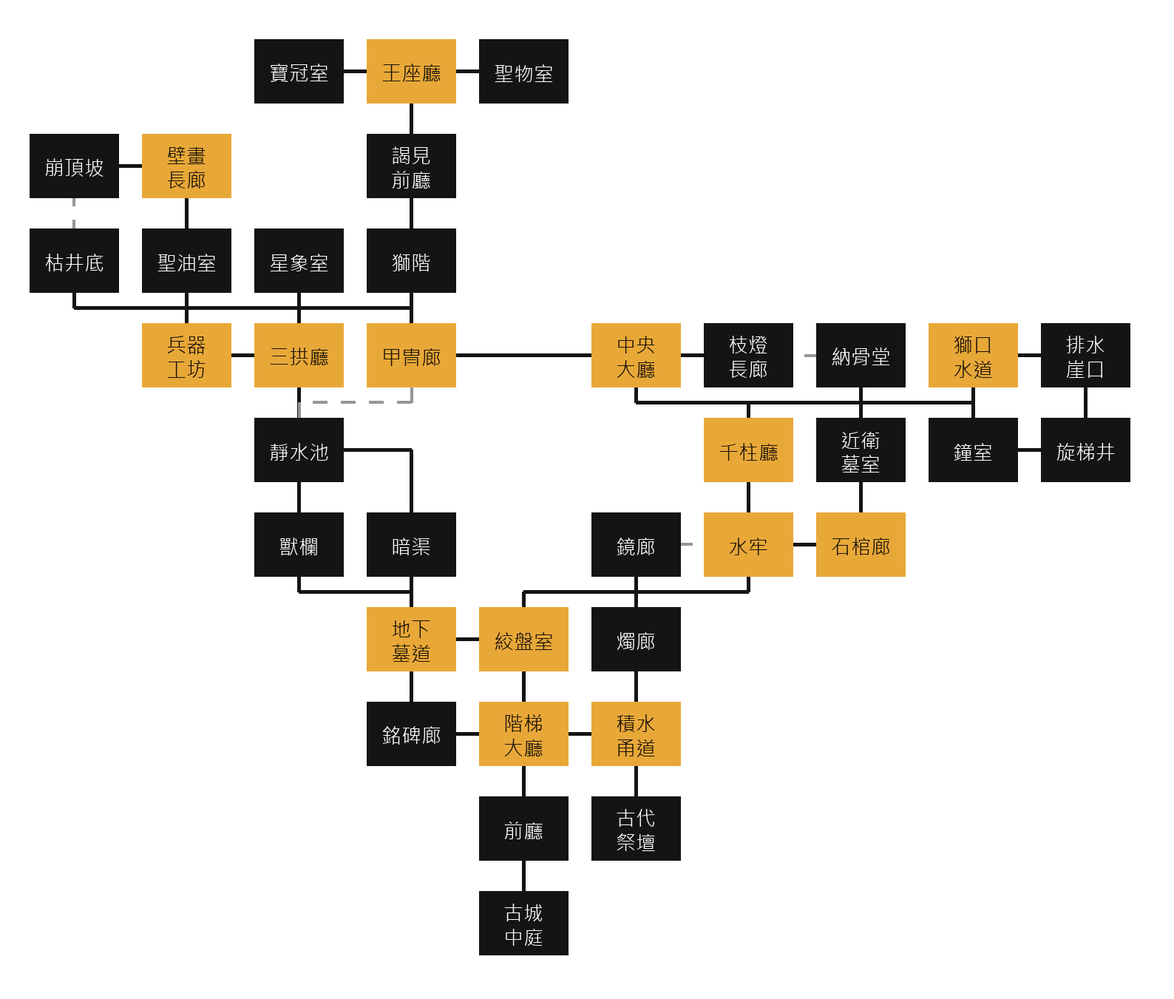
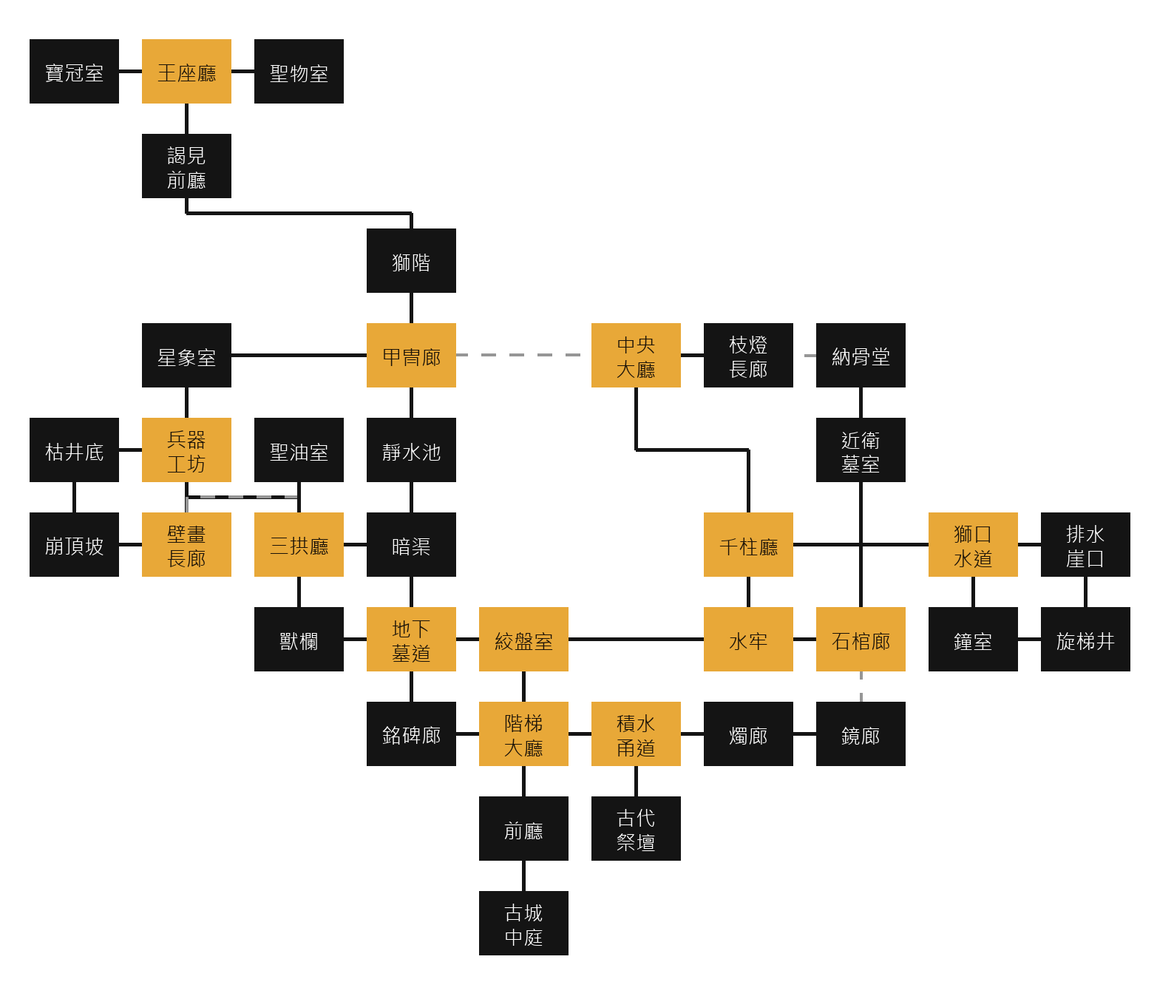
fix(belisar): 照 reference/投影片1 接 —— 方向重解 ＋ 四個休息處 ver -1406
■ 拓樸：**逐項對照投影片驗過**
· 節點 37／邊 44 —— 與投影片**零差異**（`live ^ ppt` 空集）
· 方向**重新從投影片的版面解**（憲法 -907：方向＝相對位置），
  以「與圖上連線的夾角總和最小」求解 ⇒ 22 格的 `exits` 改寫。
  ⚠ 剩 6 條偏 50~68°：那是**無解的部分** —— 圖畫成斜格，
    一格四個方向擺不下四個同象限的鄰居，總誤差已是最小。
· 兩端相反 44/44、全連通 37/37、同向不繞回、死胡同只有
  altar／crown／entrance／offering。

■ 休息處（Ray：「休息點是前廳　兵器工坊　旋梯井　獅階」）
⚠⚠ **我上一輪把「安全點」只讀成 `noWild`（不出怪），漏了 `rest`（＝結算點）。**
四格現在都是 `rest:true`：前廳・兵器工坊・旋梯井・獅階。
⚠ `rest` 與 `noWild` 是兩件事：前者是「走進去就閉棺結算」，後者是「這一格不刷怪」。
  休息處一律兩個都要（在收尾點刷怪＝先打一場再結算）。

■ `altar` 的 bg 還原成 `Belisar_OldAltar`
-1405 改成 `Belisar_EntryHall` 是**擲硬幣**：那兩張圖**位元組相同**
（32×32 指紋差 0.00），投影片的縮圖對兩者的距離一樣，分不出來。

diff --git a/script/town.js b/script/town.js
@@ -5502,17 +5502,17 @@ export const TOWNS = {
       },
     },
     nodes: {
-      throne:    { bg:'Belisar_ThroneHall', name:'貝利薩爾遺址　王座廳', noTime:true, exits:{ down:'antecham', left:'crown', right:'offering' } },
+      throne:    { bg:'Belisar_ThroneHall', name:'貝利薩爾遺址　王座廳', noTime:true, exits:{ left:'crown', right:'offering', down:'antecham' } },
       crown:     { bg:'Belisar_CrownRoom', name:'貝利薩爾遺址　寶冠室', noTime:true, exits:{ right:'throne' } },
-      antecham:  { bg:'Belisar_Antechamber', name:'貝利薩爾遺址　謁見前廳', noTime:true, exits:{ up:'throne', down:'dragstair' } },
+      antecham:  { bg:'Belisar_Antechamber', name:'貝利薩爾遺址　謁見前廳', noTime:true, exits:{ down:'dragstair', up:'throne' } },
       offering:  { bg:'Belisar_RelicRoom', name:'貝利薩爾遺址　聖物室', noTime:true, exits:{ left:'throne' } },
-      dragstair: { bg:'Belisar_LionStair', name:'貝利薩爾遺址　獅階', noTime:true, noWild:true, exits:{ up:'antecham', down:'guardhall' } },
+      dragstair: { bg:'Belisar_LionStair', name:'貝利薩爾遺址　獅階', noTime:true, noWild:true, rest:true, exits:{ up:'antecham', down:'guardhall' } },
       starroom:  { bg:'Belisar_Orrery', name:'貝利薩爾遺址　星象室', noTime:true, exits:{ right:'guardhall', down:'forge' } },
-      guardhall: { bg:'Belisar_ArmourGallery', name:'貝利薩爾遺址　甲冑廊', noTime:true, exits:{ up:'dragstair', left:'starroom', right:'greathall', down:'mirrorpool' } },
+      guardhall: { bg:'Belisar_ArmourGallery', name:'貝利薩爾遺址　甲冑廊', noTime:true, exits:{ up:'dragstair', right:'greathall', down:'mirrorpool', left:'starroom' } },
       greathall: { bg:'Belisar_GreatHall', name:'貝利薩爾遺址　中央大廳', noTime:true, exits:{ left:'guardhall', right:'lamphall', down:'pillars' } },
       lamphall:  { bg:'Belisar_ChandelierHall', name:'貝利薩爾遺址　枝燈長廊', noTime:true, exits:{ left:'greathall', right:'ossuary' } },
       ossuary:   { bg:'Belisar_Ossuary', name:'貝利薩爾遺址　納骨堂', noTime:true, exits:{ left:'lamphall', down:'wardtomb' } },
-      mirrorpool:{ bg:'Belisar_StillPool', name:'貝利薩爾遺址　靜水池', noTime:true, exits:{ up:'guardhall', down:'cages' } },
+      mirrorpool:{ bg:'Belisar_StillPool', name:'貝利薩爾遺址　靜水池', noTime:true, exits:{ down:'cages', up:'guardhall' } },
       /* ⚠ 枝燈長廊↔下沉中庭是 **`up`／`down`**（ver -1159，Ray：「枝燈長廊往下沉中庭
          應該往上吧」）—— 與佈局圖上的相對位置相反（圖上中庭畫在長廊**下面**）。
          ⚠⚠ **所以小地圖的版面要跟著改**：`tools/map_layout.py` 的 belisar 版面
@@ -5527,32 +5527,32 @@ export const TOWNS = {
          `rooffall.left` 兩個指向它的出口也拆掉（施工單第一節）。
          ⚠ `Belisar_SunkenCourt` 那組圖從此沒有人用（美術**先不回收**，等確定不放回來）。
          ⚠⚠ **這座城的休息處因此只剩 `foyer` 前廳一個** —— 那是施工單的設計，不是漏掉。 */
-      rooffall:  { bg:'Belisar_RoofFall', name:'貝利薩爾遺址　崩頂坡', noWild:true, exits:{ right:'muralwalk', up:'drywell' } },
-      muralwalk: { bg:'Belisar_MuralGallery', name:'貝利薩爾遺址　壁畫長廊', noTime:true, exits:{ left:'rooffall', up:'forge', down:'incense' } },
-      stairwell: { bg:'Belisar_SpiralWell', name:'貝利薩爾遺址　旋梯井', noTime:true, noWild:true, exits:{ up:'draincliff', left:'bellroom' } },
-      pillars:   { bg:'Belisar_Cistern', name:'貝利薩爾遺址　千柱廳', noTime:true, exits:{ up:'greathall', right:'dragonrace', down:'waterjail' } },
-      dragonrace:{ bg:'Belisar_LionSpout', name:'貝利薩爾遺址　獅口水道', noTime:true, exits:{ left:'pillars', right:'draincliff', down:'bellroom' } },
+      rooffall:  { bg:'Belisar_RoofFall', name:'貝利薩爾遺址　崩頂坡', noWild:true, exits:{ up:'drywell', right:'muralwalk' } },
+      muralwalk: { bg:'Belisar_MuralGallery', name:'貝利薩爾遺址　壁畫長廊', noTime:true, exits:{ up:'forge', down:'incense', left:'rooffall' } },
+      stairwell: { bg:'Belisar_SpiralWell', name:'貝利薩爾遺址　旋梯井', noTime:true, noWild:true, rest:true, exits:{ up:'draincliff', left:'bellroom' } },
+      pillars:   { bg:'Belisar_Cistern', name:'貝利薩爾遺址　千柱廳', noTime:true, exits:{ right:'dragonrace', up:'greathall', down:'waterjail' } },
+      dragonrace:{ bg:'Belisar_LionSpout', name:'貝利薩爾遺址　獅口水道', noTime:true, exits:{ down:'bellroom', right:'draincliff', left:'pillars' } },
       draincliff:{ bg:'Belisar_DrainCliff', name:'貝利薩爾遺址　排水崖口', exits:{ left:'dragonrace', down:'stairwell' } },
       incense:   { bg:'Belisar_ChrismRoom', name:'貝利薩爾遺址　聖油室', noTime:true, exits:{ up:'muralwalk', down:'trihall' } },
       bellroom:  { bg:'Belisar_BellRoom', name:'貝利薩爾遺址　鐘室', noTime:true, exits:{ up:'dragonrace', right:'stairwell' } },
-      drywell:   { bg:'Belisar_DryWell', name:'貝利薩爾遺址　枯井底', noTime:true, noWild:true, exits:{ right:'forge', down:'rooffall' } },
+      drywell:   { bg:'Belisar_DryWell', name:'貝利薩爾遺址　枯井底', noTime:true, noWild:true, exits:{ down:'rooffall', right:'forge' } },
       /* ⚠ 安全點（ver -1397，Ray：「旋梯井　獅階　武器工坊為安全點　不出怪」）——
          另外兩格（`stairwell`／`dragstair`）本來就寫了 `noWild`。 */
-      forge:     { bg:'Belisar_Forge', name:'貝利薩爾遺址　兵器工坊', noTime:true, noWild:true, exits:{ down:'muralwalk', left:'drywell', right:'trihall', up:'starroom' } },
-      trihall:   { bg:'Belisar_TriArch', name:'貝利薩爾遺址　三拱廳', noTime:true, exits:{ up:'incense', left:'forge', down:'culvert' } },
-      waterjail: { bg:'Belisar_WaterJail', name:'貝利薩爾遺址　水牢', noTime:true, exits:{ up:'pillars', right:'bonerack', down:'capstan' } },
-      bonerack:  { bg:'Belisar_Sarcophagi', name:'貝利薩爾遺址　石棺廊', noTime:true, exits:{ left:'waterjail', up:'wardtomb', down:'mirrorway' } },
+      forge:     { bg:'Belisar_Forge', name:'貝利薩爾遺址　兵器工坊', noTime:true, noWild:true, rest:true, exits:{ down:'muralwalk', right:'trihall', up:'starroom', left:'drywell' } },
+      trihall:   { bg:'Belisar_TriArch', name:'貝利薩爾遺址　三拱廳', noTime:true, exits:{ left:'forge', right:'culvert', up:'incense' } },
+      waterjail: { bg:'Belisar_WaterJail', name:'貝利薩爾遺址　水牢', noTime:true, exits:{ right:'bonerack', up:'pillars', left:'capstan' } },
+      bonerack:  { bg:'Belisar_Sarcophagi', name:'貝利薩爾遺址　石棺廊', noTime:true, exits:{ down:'mirrorway', up:'wardtomb', left:'waterjail' } },
       wardtomb:  { bg:'Belisar_GuardTomb', name:'貝利薩爾遺址　近衛墓室', noTime:true, exits:{ down:'bonerack', up:'ossuary' } },
-      culvert:   { bg:'Belisar_Culvert', name:'貝利薩爾遺址　暗渠', noTime:true, exits:{ up:'trihall', down:'oldtomb' } },
-      mirrorway: { bg:'Belisar_MirrorWalk', name:'貝利薩爾遺址　鏡廊', noTime:true, exits:{ up:'bonerack', down:'candlewalk' } },
-      cages:     { bg:'Belisar_Cages', name:'貝利薩爾遺址　獸欄', noTime:true, exits:{ right:'oldtomb', up:'mirrorpool' } },
-      oldtomb:   { bg:'Belisar_Catacomb', name:'貝利薩爾遺址　地下墓道', noTime:true, exits:{ up:'culvert', left:'cages', right:'capstan', down:'stelae' } },
-      capstan:   { bg:'Belisar_Capstan', name:'貝利薩爾遺址　絞盤室', noTime:true, exits:{ up:'waterjail', left:'oldtomb', down:'stephall' } },
-      candlewalk:{ bg:'Belisar_CandleWalk', name:'貝利薩爾遺址　燭廊', noTime:true, exits:{ up:'mirrorway', down:'floodway' } },
+      culvert:   { bg:'Belisar_Culvert', name:'貝利薩爾遺址　暗渠', noTime:true, exits:{ left:'trihall', down:'oldtomb' } },
+      mirrorway: { bg:'Belisar_MirrorWalk', name:'貝利薩爾遺址　鏡廊', noTime:true, exits:{ up:'bonerack', left:'candlewalk' } },
+      cages:     { bg:'Belisar_Cages', name:'貝利薩爾遺址　獸欄', noTime:true, exits:{ up:'mirrorpool', right:'oldtomb' } },
+      oldtomb:   { bg:'Belisar_Catacomb', name:'貝利薩爾遺址　地下墓道', noTime:true, exits:{ right:'capstan', down:'stelae', left:'cages', up:'culvert' } },
+      capstan:   { bg:'Belisar_Capstan', name:'貝利薩爾遺址　絞盤室', noTime:true, exits:{ left:'oldtomb', down:'stephall', right:'waterjail' } },
+      candlewalk:{ bg:'Belisar_CandleWalk', name:'貝利薩爾遺址　燭廊', noTime:true, exits:{ right:'mirrorway', left:'floodway' } },
       stelae:    { bg:'Belisar_SteleWalk', name:'貝利薩爾遺址　銘碑廊', noTime:true, exits:{ up:'oldtomb', right:'stephall' } },
-      stephall:  { bg:'Belisar_StairHall', name:'貝利薩爾遺址　階梯大廳', noTime:true, exits:{ up:'capstan', left:'stelae', right:'floodway', down:'foyer' } },
-      floodway:  { bg:'Belisar_Floodway', name:'貝利薩爾遺址　積水甬道', noTime:true, exits:{ up:'candlewalk', left:'stephall', down:'altar' } },
-      foyer:     { bg:'Belisar_Foyer', name:'貝利薩爾遺址　前廳', noTime:true, noWild:true, rest:true, exits:{ up:'stephall', down:'entrance' } },
+      stephall:  { bg:'Belisar_StairHall', name:'貝利薩爾遺址　階梯大廳', noTime:true, exits:{ up:'capstan', right:'floodway', left:'stelae', down:'foyer' } },
+      floodway:  { bg:'Belisar_Floodway', name:'貝利薩爾遺址　積水甬道', noTime:true, exits:{ down:'altar', left:'stephall', right:'candlewalk' } },
+      foyer:     { bg:'Belisar_Foyer', name:'貝利薩爾遺址　前廳', noTime:true, noWild:true, rest:true, exits:{ down:'entrance', up:'stephall' } },
       /* ══⚠⚠ **入口改用大中庭那一張**（ver -1377，Ray：「Belisar_GreatCourt_day
            貝利薩爾的入口改成這一張」）══
          ⚠⚠⚠ **一定要配 `noTime:true`**，而且 `bg` 要寫到 `_day` 為止 —— 因為這個地點
@@ -5698,7 +5698,7 @@ export const TOWNS = {
          ⚠⚠ 庫裡還有 `Belisar_EntryHallactive.webp`（點亮版）**還沒有人接** ——
            安雅感應完裝置啟動那一拍應該要換成它（走 `bgWhen` 或那一拍的 `bg`）。
            Ray 沒交代，先不接。 */
-      altar:     { bg:'Belisar_EntryHall', name:'貝利薩爾遺址　古代祭壇', noTime:true,
+      altar:     { bg:'Belisar_OldAltar', name:'貝利薩爾遺址　古代祭壇', noTime:true,
         noWild:true, exits:{ up:'floodway' },
         /* ⚠ ver -1385：`goto` 由 `courtyard`（下沉中庭）改成 **`entrance`（古城中庭）**
            —— 撤離那一段演在**出口**、也是真的淹水的那一格（`GreatCourt_flood`）。 */
@@ -5778,6 +5778,7 @@ export const TOWNS = {
     },
   },
 };
+
 
 
 

diff --git a/flight/index.html b/flight/index.html
@@ -3,7 +3,7 @@
 <head>
 <meta charset="utf-8">
 <meta name="viewport" content="width=device-width,initial-scale=1,maximum-scale=1,user-scalable=no,viewport-fit=cover">
-<script src="../orientation.js?v=1405"></script>
+<script src="../orientation.js?v=1406"></script>
 <title>TIVOT — 銀月大陸航行</title>
 <style>
   :root{ --gold:#c9a227; --parch:#d8cdb4; }
@@ -212,7 +212,7 @@
     100%{transform:translate(0,0);} }
   #fkerbDoor{position:absolute;left:0;top:0;transform:translateY(0);
     transition:transform 1s cubic-bezier(.22,.9,.25,1);
-    background-image:url('../resources/vfx/kerberos_door.webp?v=1405edab');
+    background-image:url('../resources/vfx/kerberos_door.webp?v=1406edab');
     background-repeat:no-repeat;background-size:100% 100%;}
   #fkerb.rise #fkerbDoor{transform:translateY(calc(var(--fkerb-rise,0px) * -1));}
   /* 楣與其餘零件：全部是門的子元素＝同一剛體，門上推它們跟著上去
@@ -235,8 +235,8 @@
       radial-gradient(circle at 50% 22%, rgba(0,0,0,.72) 40%, rgba(0,0,0,0) 78%);
     box-shadow:inset 0 3px 7px rgba(0,0,0,.85);}
   #fkerbGear .fkg-shine{position:absolute;inset:0;mix-blend-mode:screen;opacity:.8;
-    -webkit-mask-image:url("../resources/vfx/kerberos_gear.webp?v=1405edab");
-    mask-image:url("../resources/vfx/kerberos_gear.webp?v=1405edab");
+    -webkit-mask-image:url("../resources/vfx/kerberos_gear.webp?v=1406edab");
+    mask-image:url("../resources/vfx/kerberos_gear.webp?v=1406edab");
     -webkit-mask-size:100% 100%;mask-size:100% 100%;
     -webkit-mask-repeat:no-repeat;mask-repeat:no-repeat;
     background:linear-gradient(114deg,
@@ -256,8 +256,8 @@
     filter:drop-shadow(0 3px 7px rgba(0,0,0,.9)) drop-shadow(0 0 2px rgba(0,0,0,.8));}
   #fkerbPend .fkp-shine{position:absolute;inset:0;pointer-events:none;
     mix-blend-mode:screen;opacity:.85;
-    -webkit-mask-image:url("../resources/vfx/kerberos_pendant.webp?v=1405edab");
-    mask-image:url("../resources/vfx/kerberos_pendant.webp?v=1405edab");
+    -webkit-mask-image:url("../resources/vfx/kerberos_pendant.webp?v=1406edab");
+    mask-image:url("../resources/vfx/kerberos_pendant.webp?v=1406edab");
     -webkit-mask-size:100% 100%;mask-size:100% 100%;
     -webkit-mask-repeat:no-repeat;mask-repeat:no-repeat;
     background:linear-gradient(114deg,
@@ -620,25 +620,25 @@
        ⚠ 要有，否則交棒那一格齒輪會憑空冒出來（同吊墜的理由）。
        ⚠ 排在 `.fk-plate` 之前 ＝ 團徽之下、槍棺之上。 -->
   <div id="fkerbGear"><i class="fkg-well"></i>
-    <img src="../resources/vfx/kerberos_gear.webp?v=1405edab" alt=""><i class="fkg-shine"></i></div>
+    <img src="../resources/vfx/kerberos_gear.webp?v=1406edab" alt=""><i class="fkg-shine"></i></div>
   <div id="fkerbGearSm"><i class="fkg-well"></i>
-    <img src="../resources/vfx/kerberos_gear.webp?v=1405edab" alt=""></div>
-  <img class="fk-plate" src="../resources/vfx/kerberos_plate.webp?v=1405edab" alt="">
-  <img class="fk-arrow n" src="../resources/vfx/kerberos_arrow.webp?v=1405edab" alt="">
-  <img class="fk-arrow e" src="../resources/vfx/kerberos_arrow.webp?v=1405edab" alt="">
-  <img class="fk-arrow s" src="../resources/vfx/kerberos_arrow.webp?v=1405edab" alt="">
-  <img class="fk-arrow w" src="../resources/vfx/kerberos_arrow.webp?v=1405edab" alt="">
-  <img class="fk-rivet r10" src="../resources/vfx/kerberos_rivet.webp?v=1405edab" alt="">
-  <img class="fk-rivet r2"  src="../resources/vfx/kerberos_rivet.webp?v=1405edab" alt="">
-  <img class="fk-rivet r4"  src="../resources/vfx/kerberos_rivet.webp?v=1405edab" alt="">
-  <img class="fk-rivet r8"  src="../resources/vfx/kerberos_rivet.webp?v=1405edab" alt="">
+    <img src="../resources/vfx/kerberos_gear.webp?v=1406edab" alt=""></div>
+  <img class="fk-plate" src="../resources/vfx/kerberos_plate.webp?v=1406edab" alt="">
+  <img class="fk-arrow n" src="../resources/vfx/kerberos_arrow.webp?v=1406edab" alt="">
+  <img class="fk-arrow e" src="../resources/vfx/kerberos_arrow.webp?v=1406edab" alt="">
+  <img class="fk-arrow s" src="../resources/vfx/kerberos_arrow.webp?v=1406edab" alt="">
+  <img class="fk-arrow w" src="../resources/vfx/kerberos_arrow.webp?v=1406edab" alt="">
+  <img class="fk-rivet r10" src="../resources/vfx/kerberos_rivet.webp?v=1406edab" alt="">
+  <img class="fk-rivet r2"  src="../resources/vfx/kerberos_rivet.webp?v=1406edab" alt="">
+  <img class="fk-rivet r4"  src="../resources/vfx/kerberos_rivet.webp?v=1406edab" alt="">
+  <img class="fk-rivet r8"  src="../resources/vfx/kerberos_rivet.webp?v=1406edab" alt="">
   <!-- 吊墜（ver -412）：與主遊戲同一套（見 index.html 的 #kerbPend 與 style.css）。
        ⚠ 這一頁**必須也有** —— 遭遇時門是在這裡推上來的，交棒之後主遊戲那一半才接手；
          只有一邊掛吊墜的話，交棒那一格會憑空多出一個東西。 -->
   <div id="fkerbPend"><div class="fkp-swing"><div class="fkp-idle">
-    <img src="../resources/vfx/kerberos_pendant.webp?v=1405edab" alt=""><i class="fkp-shine"></i>
+    <img src="../resources/vfx/kerberos_pendant.webp?v=1406edab" alt=""><i class="fkp-shine"></i>
   </div></div></div>
-  <img id="fkerbTop" src="../resources/vfx/kerberos_top.webp?v=1405edab" alt="">
+  <img id="fkerbTop" src="../resources/vfx/kerberos_top.webp?v=1406edab" alt="">
 </div></div>
 <div id="boot">
   <div id="bRing">
@@ -659,11 +659,11 @@
   <div id="bMsg"><small id="bootMsg"></small></div>
 </div>
 
-<script src="settlement.js?v=1405"></script>
+<script src="settlement.js?v=1406"></script>
 <!-- 閒聊對話的**內容**獨立成一支：方便加台詞、加觸發條件而不必碰引擎。
      ⚠ 一般 <script>（非 module）→ TALKS / talkPeriod / talkPick 是全域，
        而且會在下面這段 inline 之前執行完，所以 inline 內可以直接用。 -->
-<script src="talks.js?v=1405"></script>
+<script src="talks.js?v=1406"></script>
 <script>
 /* ══════════════════════════════════════════════════════════════════════
    TIVOT — 銀月大陸航行（吃真實地圖版）
@@ -715,7 +715,7 @@ const COLOR_URL  = 'silvermoon_terrain.png'  + TERRAIN_V;
    以前是手寫的，於是從 -911 起就沒有人記得動它 —— 而 HUD 上的版本號正是 Ray
    在手機上確認「我現在跑的是哪一版」的唯一依據（鐵律 7：一個量一個計算點；
    ver -626：版本號不動就等於沒有版本號）。**不要手改。** */
-const FLIGHT_VER = 'ver -1405';
+const FLIGHT_VER = 'ver -1406';
 const MAP_SCALE  = 20;
 const INV_SCALE  = 1/MAP_SCALE;
 const PEAK_SCALE = 520;   // 高度圖 255 對應的世界高度（越大山越陡）

diff --git a/index.html b/index.html
@@ -16,7 +16,7 @@
 <link rel="apple-touch-icon" href="resources/background/TIVOT_Emblem.png">
 <title>TIVOT</title>
 <!-- 全域鎖直向（真鎖 + 橫向擋板）；classic script，需在版面就緒前掛上 -->
-<script src="orientation.js?v=1405"></script>
+<script src="orientation.js?v=1406"></script>
 <!-- ══ 效能探針・計數層（ver -850，Ray：「沒有辦法寫一個偵測程式進去看是什麼
      東西在吃資源嗎？」）══ 要在**所有程式之前**掛（晚掛就數不到早開的計時器），
      所以住在這裡。只做登記（Set/計數，開銷趨近零）；讀取與呈現在 main.js 的
@@ -63,55 +63,55 @@
 <script type="importmap">
 {
   "imports": {
-    "./audio.js": "./audio.js?v=1405",
-    "./config.js": "./config.js?v=1405",
-    "./i18n.js": "./i18n.js?v=1405",
-    "./main.js": "./main.js?v=1405",
-    "./orientation.js": "./orientation.js?v=1405",
-    "./state.js": "./state.js?v=1405",
-    "./telemetry.js": "./telemetry.js?v=1405",
-    "./modules/combat.js": "./modules/combat.js?v=1405",
-    "./modules/defense.js": "./modules/defense.js?v=1405",
-    "./modules/enemy.js": "./modules/enemy.js?v=1405",
-    "./modules/gear.js": "./modules/gear.js?v=1405",
-    "./modules/haptics.js": "./modules/haptics.js?v=1405",
-    "./modules/inn.js": "./modules/inn.js?v=1405",
-    "./modules/inspector.js": "./modules/inspector.js?v=1405",
-    "./modules/loot.js": "./modules/loot.js?v=1405",
-    "./modules/partner.js": "./modules/partner.js?v=1405",
-    "./modules/saint.js": "./modules/saint.js?v=1405",
-    "./modules/sakura.js": "./modules/sakura.js?v=1405",
-    "./modules/save.js": "./modules/save.js?v=1405",
-    "./modules/settings.js": "./modules/settings.js?v=1405",
-    "./modules/story.js": "./modules/story.js?v=1405",
-    "./modules/tone.js": "./modules/tone.js?v=1405",
-    "./modules/town.js": "./modules/town.js?v=1405",
-    "./modules/transition.js": "./modules/transition.js?v=1405",
-    "./modules/tutorial.js": "./modules/tutorial.js?v=1405",
-    "./modules/weapon.js": "./modules/weapon.js?v=1405",
-    "./script/bg_index.js": "./script/bg_index.js?v=1405",
-    "./script/clock.js": "./script/clock.js?v=1405",
-    "./script/enemies.js": "./script/enemies.js?v=1405",
-    "./script/evaluation.js": "./script/evaluation.js?v=1405",
-    "./script/inventory.js": "./script/inventory.js?v=1405",
-    "./script/loadout.js": "./script/loadout.js?v=1405",
-    "./script/mainScript.js": "./script/mainScript.js?v=1405",
-    "./script/progress.js": "./script/progress.js?v=1405",
-    "./script/shopstock.js": "./script/shopstock.js?v=1405",
-    "./script/speakers.js": "./script/speakers.js?v=1405",
-    "./script/town.js": "./script/town.js?v=1405",
-    "./i18n/en.js": "./i18n/en.js?v=1405",
-    "./i18n/ja.js": "./i18n/ja.js?v=1405",
-    "./i18n/zh.js": "./i18n/zh.js?v=1405"
+    "./audio.js": "./audio.js?v=1406",
+    "./config.js": "./config.js?v=1406",
+    "./i18n.js": "./i18n.js?v=1406",
+    "./main.js": "./main.js?v=1406",
+    "./orientation.js": "./orientation.js?v=1406",
+    "./state.js": "./state.js?v=1406",
+    "./telemetry.js": "./telemetry.js?v=1406",
+    "./modules/combat.js": "./modules/combat.js?v=1406",
+    "./modules/defense.js": "./modules/defense.js?v=1406",
+    "./modules/enemy.js": "./modules/enemy.js?v=1406",
+    "./modules/gear.js": "./modules/gear.js?v=1406",
+    "./modules/haptics.js": "./modules/haptics.js?v=1406",
+    "./modules/inn.js": "./modules/inn.js?v=1406",
+    "./modules/inspector.js": "./modules/inspector.js?v=1406",
+    "./modules/loot.js": "./modules/loot.js?v=1406",
+    "./modules/partner.js": "./modules/partner.js?v=1406",
+    "./modules/saint.js": "./modules/saint.js?v=1406",
+    "./modules/sakura.js": "./modules/sakura.js?v=1406",
+    "./modules/save.js": "./modules/save.js?v=1406",
+    "./modules/settings.js": "./modules/settings.js?v=1406",
+    "./modules/story.js": "./modules/story.js?v=1406",
+    "./modules/tone.js": "./modules/tone.js?v=1406",
+    "./modules/town.js": "./modules/town.js?v=1406",
+    "./modules/transition.js": "./modules/transition.js?v=1406",
+    "./modules/tutorial.js": "./modules/tutorial.js?v=1406",
+    "./modules/weapon.js": "./modules/weapon.js?v=1406",
+    "./script/bg_index.js": "./script/bg_index.js?v=1406",
+    "./script/clock.js": "./script/clock.js?v=1406",
+    "./script/enemies.js": "./script/enemies.js?v=1406",
+    "./script/evaluation.js": "./script/evaluation.js?v=1406",
+    "./script/inventory.js": "./script/inventory.js?v=1406",
+    "./script/loadout.js": "./script/loadout.js?v=1406",
+    "./script/mainScript.js": "./script/mainScript.js?v=1406",
+    "./script/progress.js": "./script/progress.js?v=1406",
+    "./script/shopstock.js": "./script/shopstock.js?v=1406",
+    "./script/speakers.js": "./script/speakers.js?v=1406",
+    "./script/town.js": "./script/town.js?v=1406",
+    "./i18n/en.js": "./i18n/en.js?v=1406",
+    "./i18n/ja.js": "./i18n/ja.js?v=1406",
+    "./i18n/zh.js": "./i18n/zh.js?v=1406"
   }
 }
 </script>
 <!-- BUST:END -->
-<link rel="stylesheet" href="style.css?v=1405">
+<link rel="stylesheet" href="style.css?v=1406">
   <!-- 拾得道具／道具欄／商店／懸賞榜（ver -380 抽出，飛行頁共用同一份）。
        ⚠ `data-lootsheet` 是給 `modules/loot.js` 認的：它看到已經掛過就不再掛一次。
          飛行頁沒有這一行，由那支模組自己掛上去。 -->
-  <link rel="stylesheet" href="css/lootsheet.css?v=1405" data-lootsheet="1">
+  <link rel="stylesheet" href="css/lootsheet.css?v=1406" data-lootsheet="1">
 <!-- 主畫面 App（standalone）偵測：首繪前在 <html> 蓋 .standalone，
      供 CSS 修 iOS 26 版面視窗少算頂部安全區高度（底部露黑帶）的問題 -->
 <script>
@@ -686,6 +686,6 @@
      ⚠ src 是**按下去才給**的（lazy）：不然每次開機都要多載一整個飛行頁。 -->
 <iframe id="flightFrame" title="飛行"></iframe>
 
-<script type="module" src="main.js?v=1405"></script>
+<script type="module" src="main.js?v=1406"></script>
 </body>
 </html>

diff --git a/modules/story.js b/modules/story.js
@@ -1884,7 +1884,7 @@ const KERB_DIR='resources/vfx/';
    cache-buster（§5：檔名沒變、內容變了，瀏覽器照樣拿舊的那一份，而症狀只是
    「看起來沒變」）。版本號由 `tools/bust.py` 同步，路徑只由 `kerbUrl()` 組（鐵律 8）——
    飛行頁那一半是另一個 document，各有一份，改一邊要改另一邊。 */
-const KERB_V='?v=1405';
+const KERB_V='?v=1406';
 const kerbUrl=n=>KERB_DIR+n+'.webp'+KERB_V;
 /* 幾何：由 tools/kerberos_cut.py 印出來的（門座標的比例）。**改圖要重跑腳本再貼回來。**
    ⚠ 箭與鉚釘給的是**中心點**與**未旋轉**的尺寸 —— CSS 的 rotate 是繞元素中心轉的，

diff --git a/config.js b/config.js
@@ -69,7 +69,7 @@ export const HITFX = {
  *     以為是快取卡住 —— 版本號不動就等於沒有版本號）。
  *  ⚠ 它同時是**暖開機戳記的鑰匙**（main.js 的 `WARM_BOOT`）：版本一變，
  *    上一版的戳記就失效 → 下一次開機重跑完整讀取。那正是改版後該有的行為。 */
-export const VERSION = 'ver 2026.09.16-1405';
+export const VERSION = 'ver 2026.09.16-1406';
 
 export const GAME_CONFIG = {
 

diff --git a/tools/map_layout.py b/tools/map_layout.py
@@ -38,14 +38,14 @@ POS = {
   #   ⚠ 這一張**排不進標準的直角格**（見 BEND）：欄列之間刻意留空，
   #     版面只保證「方向的正負號」對（left 的鄰居欄號比較小），不保證剛好差 1。
   'belisar': {
-    'crown':(2,0), 'throne':(3,0), 'offering':(4,0),
-    'rooffall':(0,1), 'muralwalk':(1,1), 'antecham':(3,1),
-    'drywell':(0,2), 'incense':(1,2), 'starroom':(2,2), 'dragstair':(3,2),
-    'forge':(1,3), 'trihall':(2,3), 'guardhall':(3,3), 'greathall':(5,3), 'lamphall':(6,3), 'ossuary':(7,3), 'dragonrace':(8,3), 'draincliff':(9,3),
-    'mirrorpool':(2,4), 'pillars':(6,4), 'wardtomb':(7,4), 'bellroom':(8,4), 'stairwell':(9,4),
-    'cages':(2,5), 'culvert':(3,5), 'mirrorway':(5,5), 'waterjail':(6,5), 'bonerack':(7,5),
-    'oldtomb':(3,6), 'capstan':(4,6), 'candlewalk':(5,6),
-    'stelae':(3,7), 'stephall':(4,7), 'floodway':(5,7),
+    'crown':(0,0), 'throne':(1,0), 'offering':(2,0),
+    'antecham':(1,1),
+    'dragstair':(3,2),
+    'starroom':(1,3), 'guardhall':(3,3), 'greathall':(5,3), 'lamphall':(6,3), 'ossuary':(7,3),
+    'drywell':(0,4), 'forge':(1,4), 'incense':(2,4), 'mirrorpool':(3,4), 'wardtomb':(7,4),
+    'rooffall':(0,5), 'muralwalk':(1,5), 'trihall':(2,5), 'culvert':(3,5), 'pillars':(6,5), 'dragonrace':(8,5), 'draincliff':(9,5),
+    'cages':(2,6), 'oldtomb':(3,6), 'capstan':(4,6), 'waterjail':(6,6), 'bonerack':(7,6), 'bellroom':(8,6), 'stairwell':(9,6),
+    'stelae':(3,7), 'stephall':(4,7), 'floodway':(5,7), 'candlewalk':(6,7), 'mirrorway':(7,7),
     'foyer':(4,8), 'altar':(5,8),
     'entrance':(4,9),
   },
@@ -171,7 +171,7 @@ def load(town):
 BEND = {
   # 貝利薩爾遺址（ver -1396 實測）：4 個環裡有 3 個的方向和不是零。
   # 兩端相反 41/41 通過、38 格 × 4 向都走得出去 ⇒ 玩起來沒問題，只是畫不直。
-  'belisar': {('bonerack','mirrorway'), ('drywell','rooffall'), ('forge','muralwalk'), ('guardhall','mirrorpool'), ('lamphall','ossuary')},
+  'belisar': {('bonerack','mirrorway'), ('greathall','guardhall'), ('incense','muralwalk'), ('lamphall','ossuary')},
 }
 def bent(town, a, b):
     s = BEND.get(town) or set()
